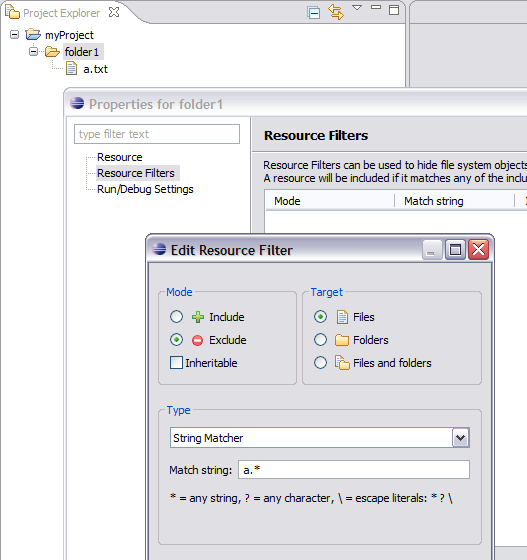
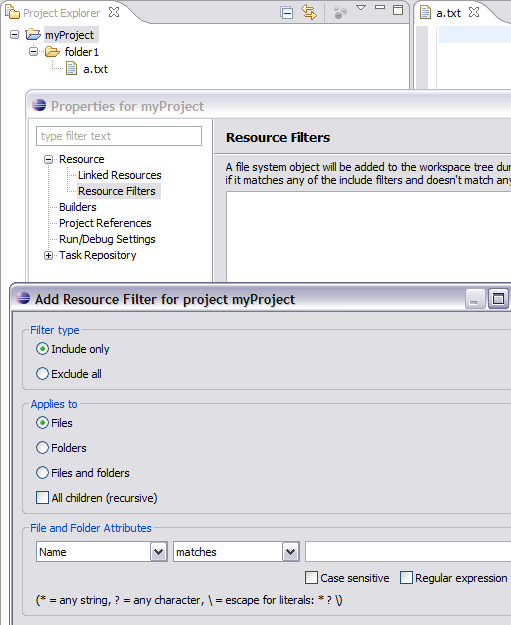
fix in the Resource Filters description

diff --git a/bundles/org.eclipse.platform.doc.user/whatsNew/platform_whatsnew.html b/bundles/org.eclipse.platform.doc.user/whatsNew/platform_whatsnew.html
@@ -74,12 +74,11 @@ document in the plug-in developer's guide.
     workspace facilities such as builders. Filters can be configured on the <b>Resource Filters</b> 
     page in the <b>Properties</b> dialog. When a filter is added, the following attributes have to be set.
     <ul>
-    	<li><b>Type</b> - determines the filtering method (simple wildcards, regular expression, etc)</li>
-    	<li><b>Target</b> - determines the type of resources that should be affected (files, folders, or both)</li>
-    	<li><b>Mode</b> - determines whether only matching resources should be visible (<b>Include</b>) or whether all matching resources should be hidden (<b>Exclude</b>)</li>
+    	<li><b>Filter type</b> - determines whether only matching resources should be visible (<b>Include</b>) or whether all matching resources should be hidden (<b>Exclude</b>)</li>
+    	<li><b>Applies to</b> - determines the type of resources that should be affected (files, folders, or both)</li>
+    	<li><b>All children (recursive)</b> - indicates that the filter should be used for the entire resource subtree</li>
+    	<li><b>File and Folder Attributes</b> - specifies the filter condition</li>
 	</ul>
-    By default resource filters affect only direct children of the configured container. The <b>Inheritable</b> option 
-    indicates that the filter should be used for the entire resource subtree.
     <p><img src="images/resourceFilters.png" alt="Resource Filters" /></p></td>
   </tr> 
 
